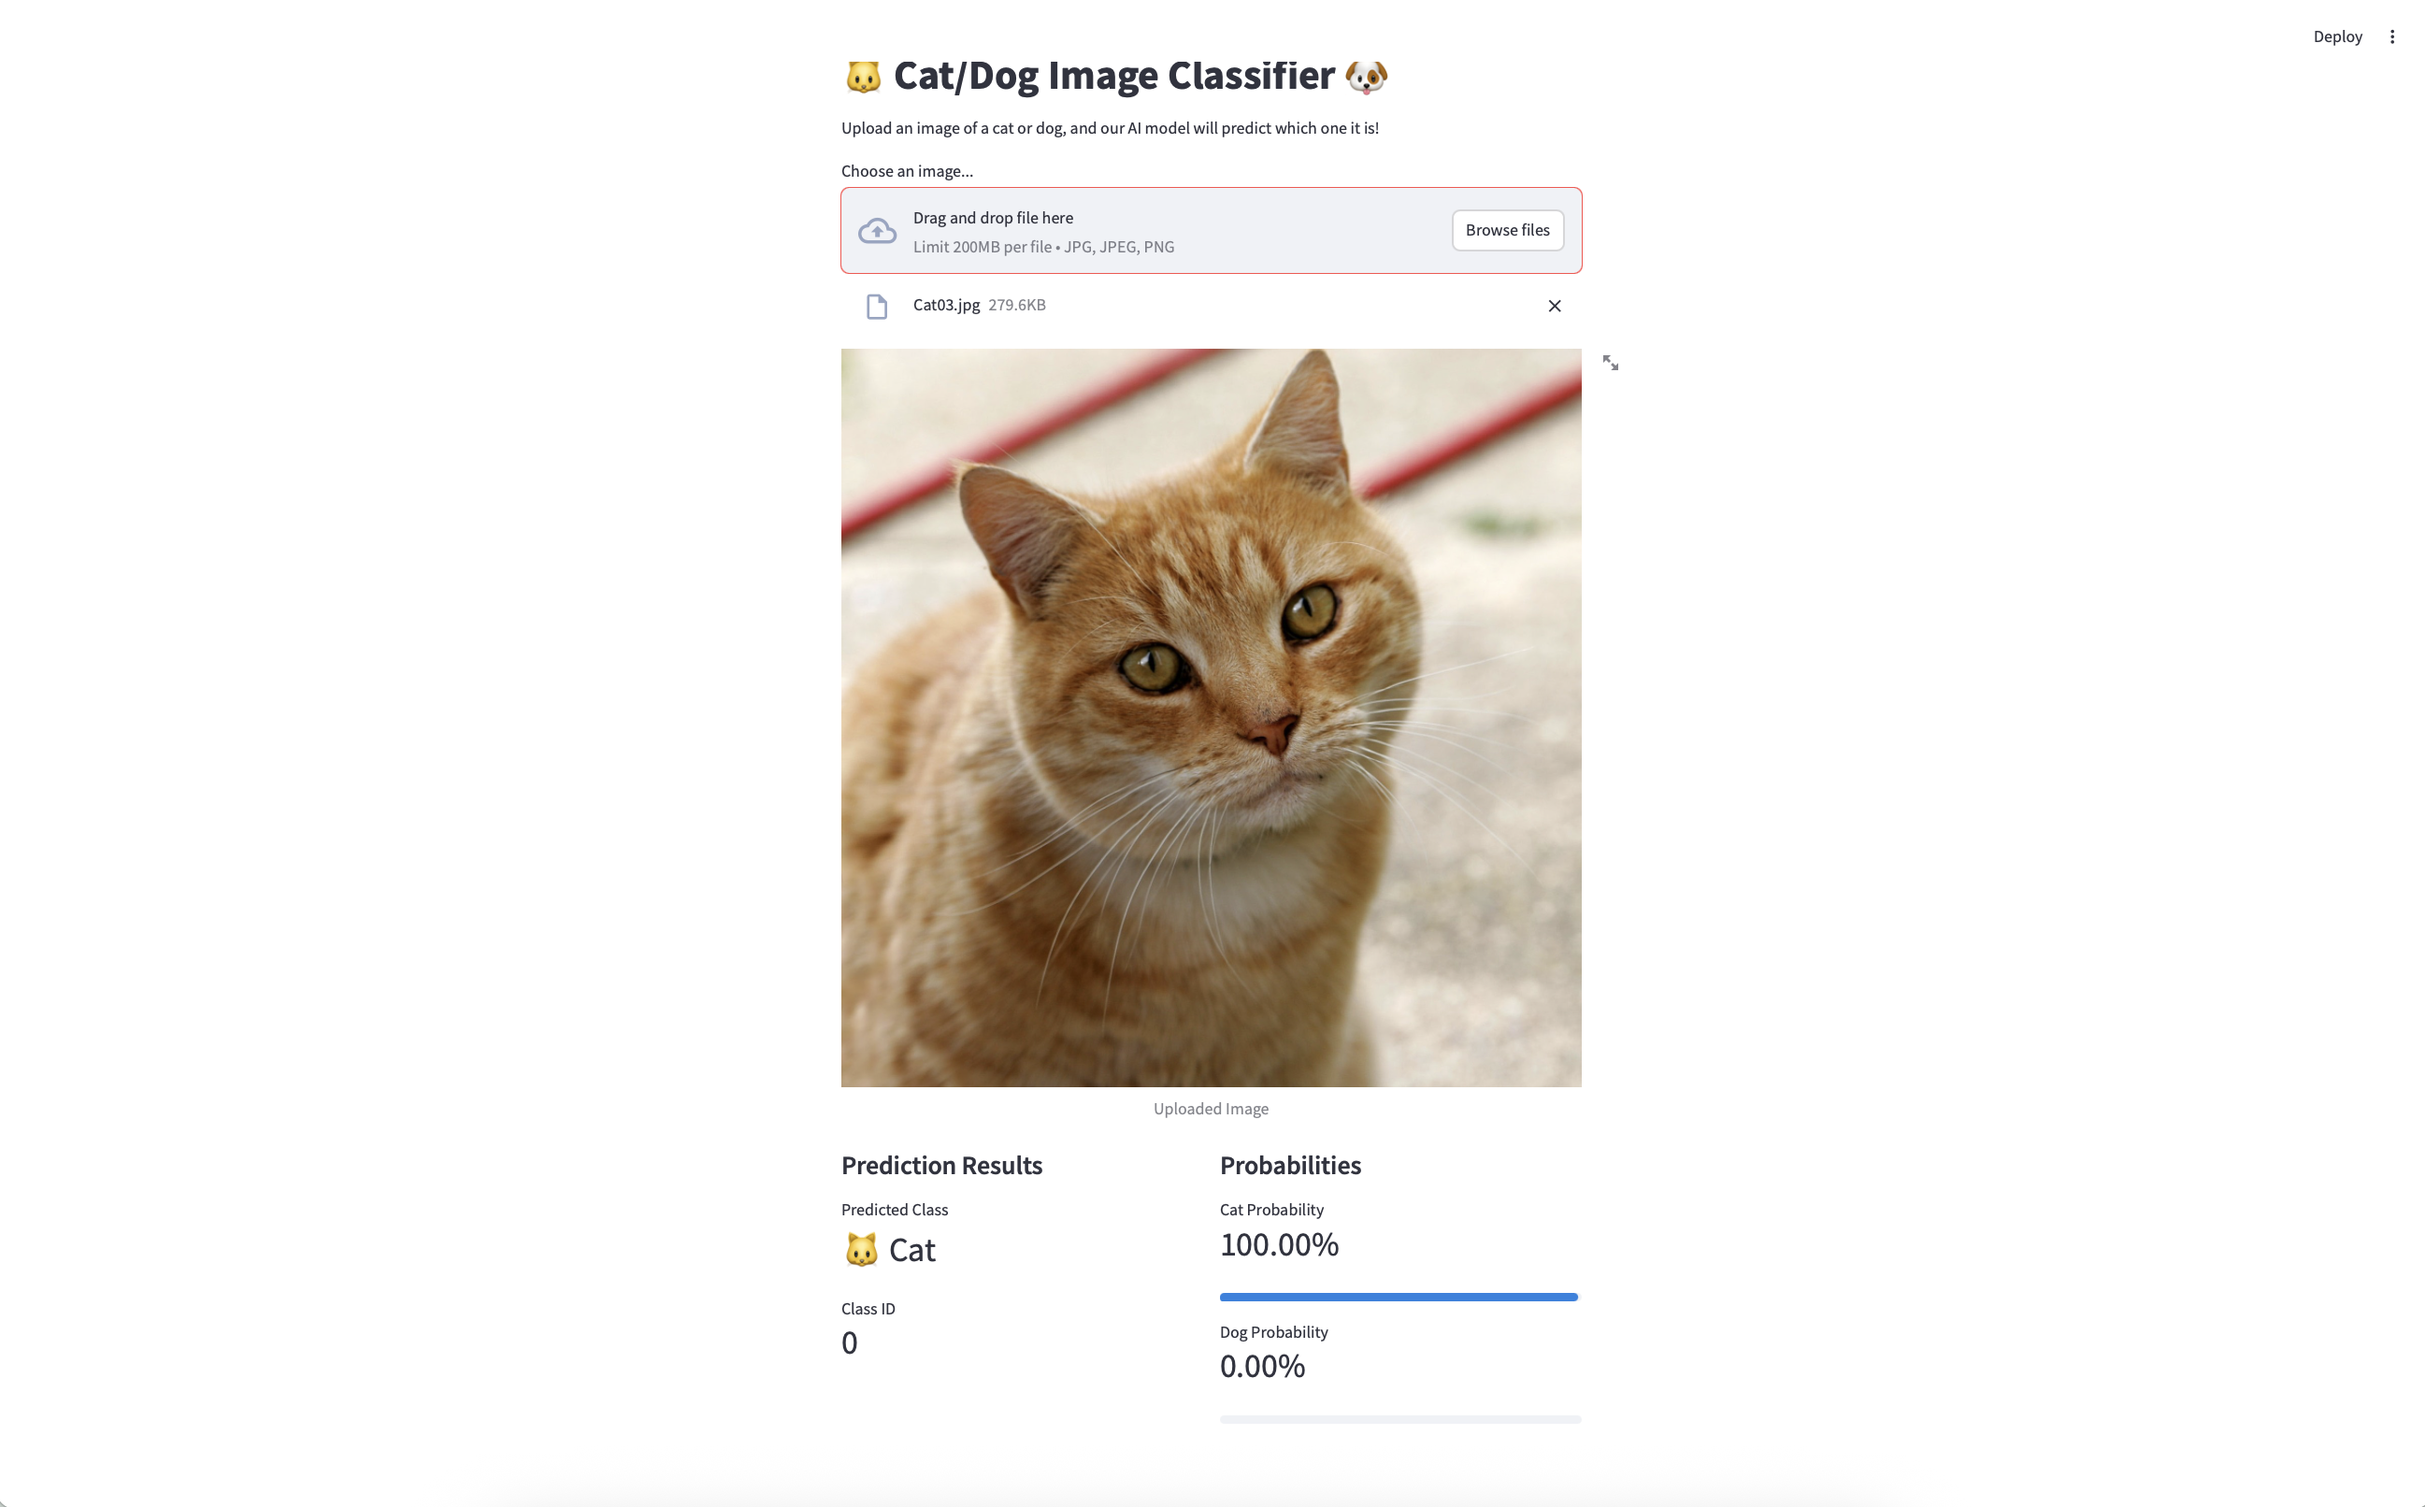
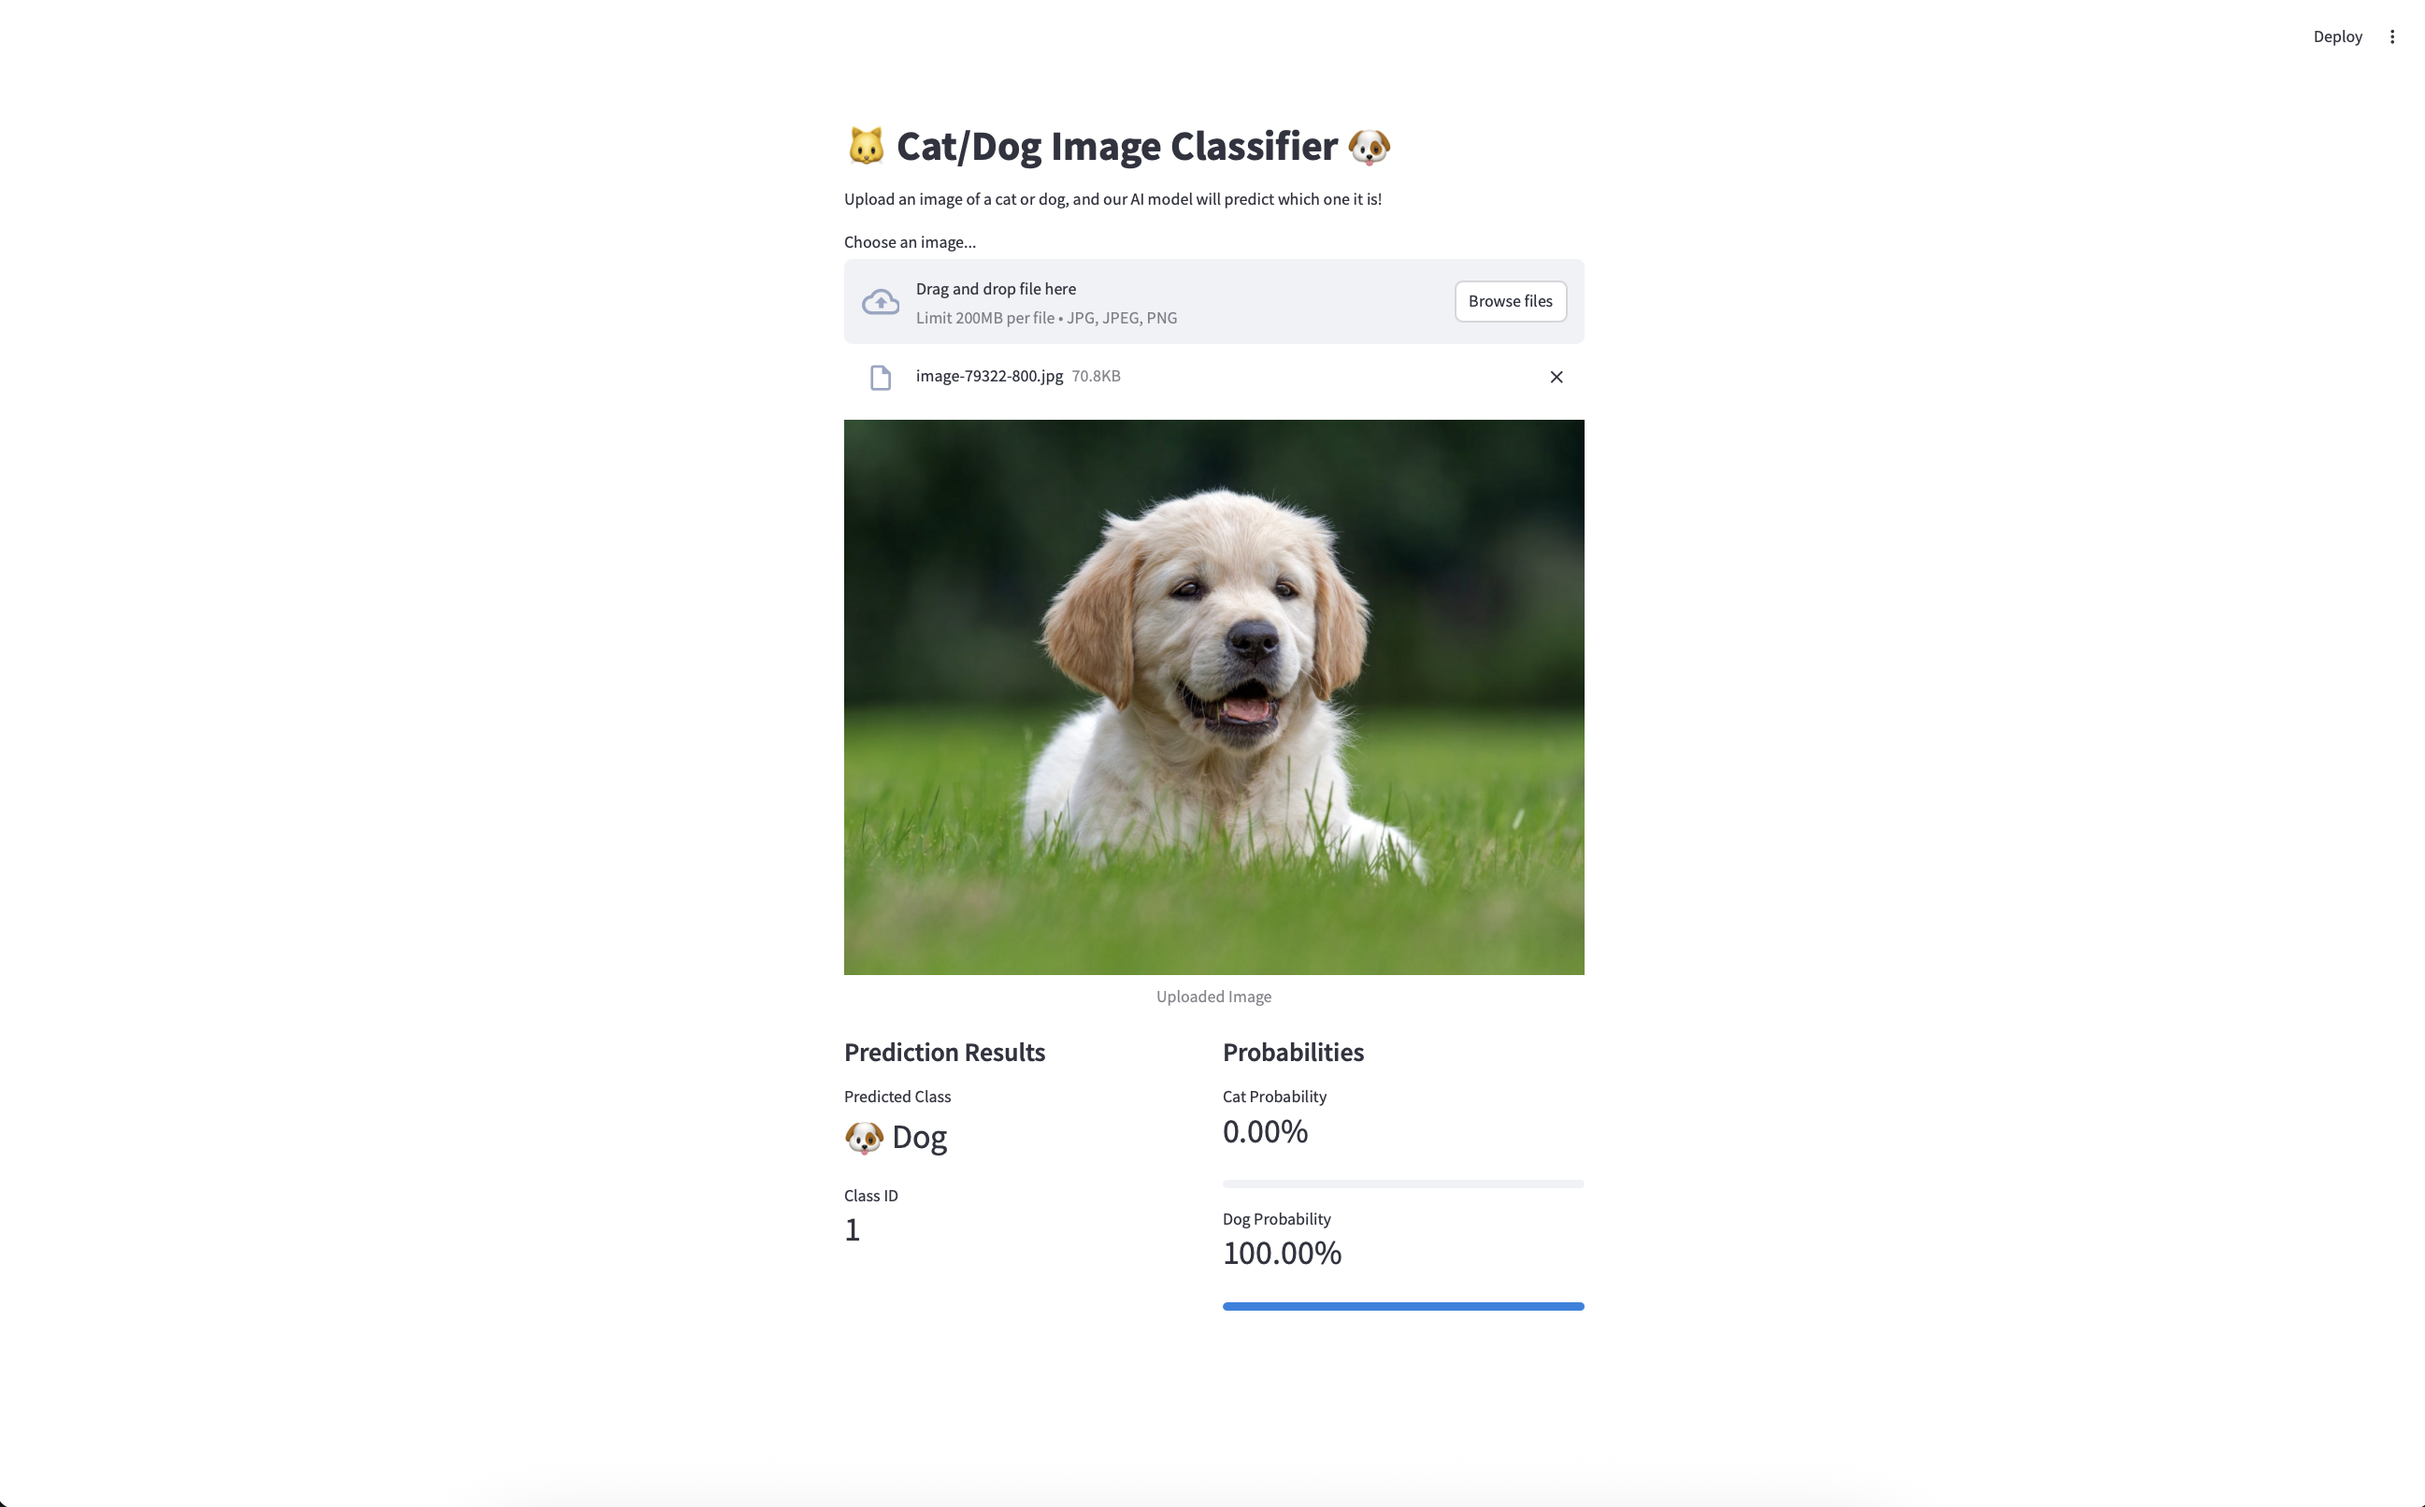
fix doc

Changed region(s): [[0.3435, 0.031, 0.6557, 0.9305], [0.5933, 0.1241, 0.6557, 0.1551], [0.9992, 0.9926, 1.0, 1.0]]

diff --git a/README.md b/README.md
@@ -96,9 +96,14 @@ The web interface will be available at http://localhost:8501
 
 Here's a demo of the application in action:
 
-![Demo Image](images/image.png)
+<table>
+<tr>
+<td><img src="images/image.png" alt="Demo Image 1" width="400"/></td>
+<td><img src="images/image1.png" alt="Demo Image 2" width="400"/></td>
+</tr>
+</table>
 
-The demo image shows the web interface where:
+The demo images show the web interface where:
 1. A user has uploaded an image
 2. The system has processed it and displayed:
    - The predicted class (Cat/Dog)
@@ -106,7 +111,7 @@ The demo image shows the web interface where:
    - Visual progress bars showing the confidence levels
 3. The interface provides a clean, user-friendly way to interact with the classification model
 
-You can test the application yourself using this demo image or any other cat/dog image.
+You can test the application yourself using these demo images or any other cat/dog image.
 
 ## Notes
 
